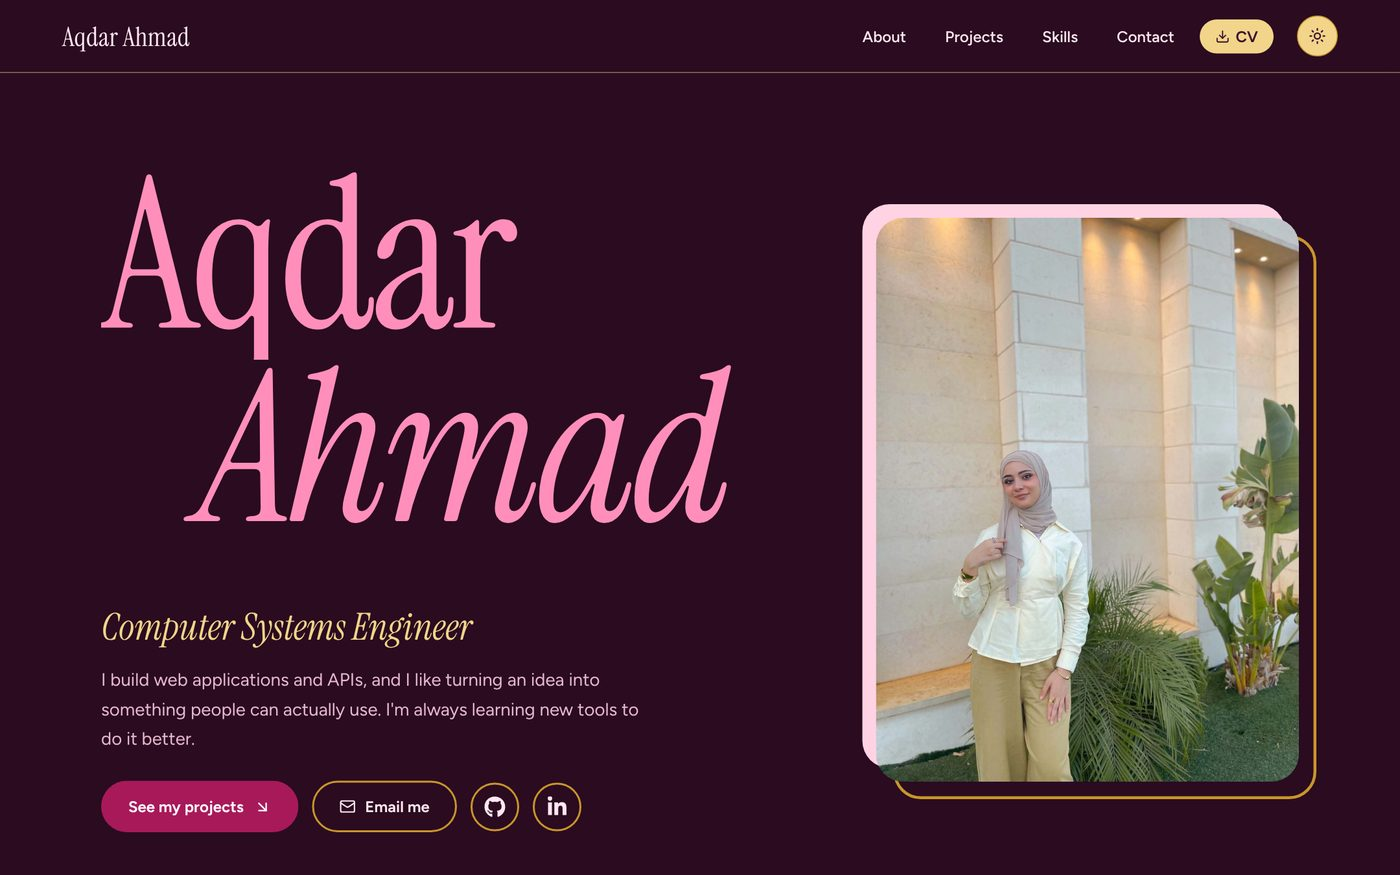
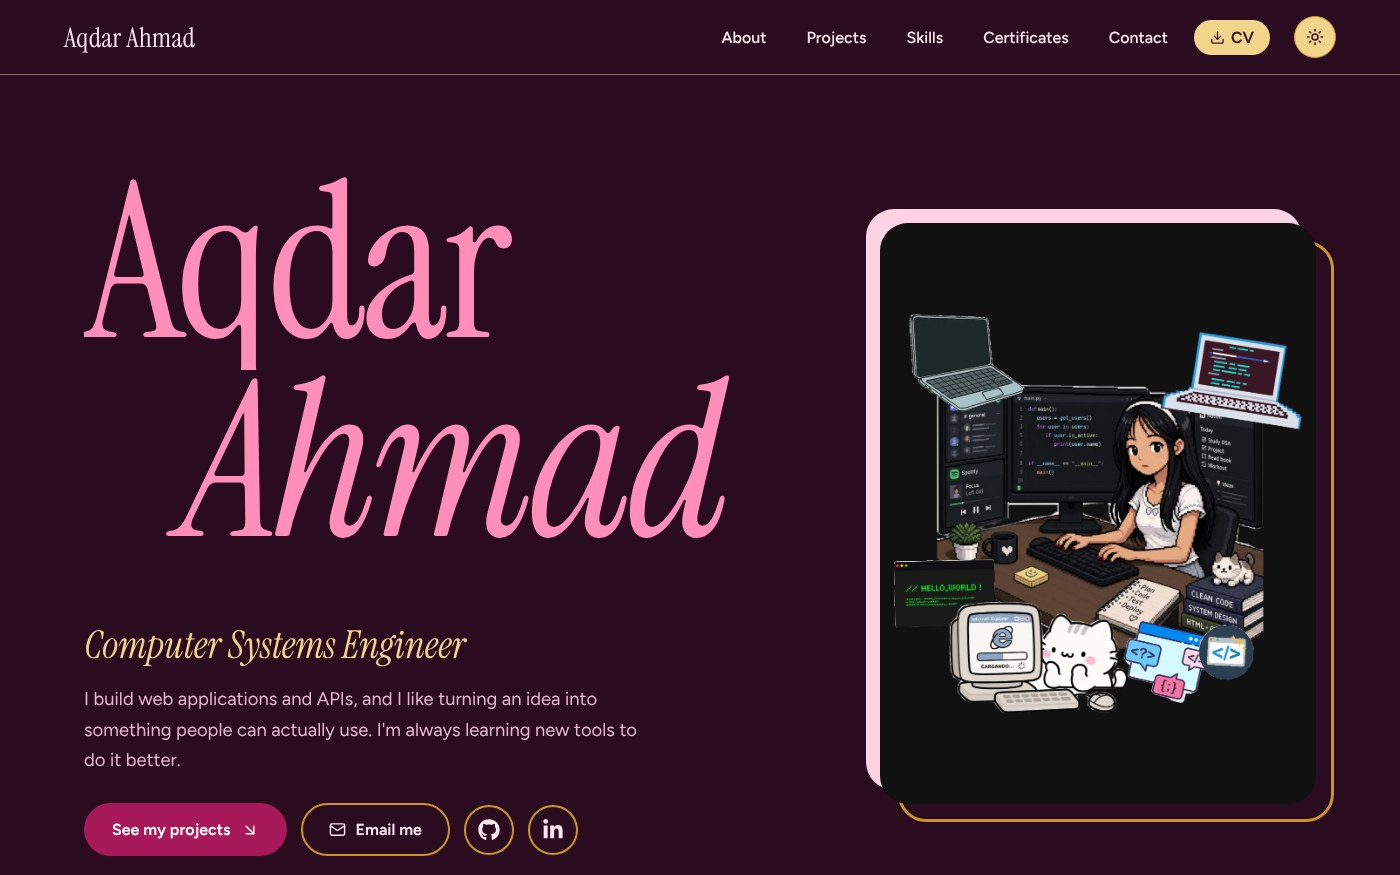
Replace hero portrait with new pixel-art illustration
- Swap src/assets/aqdar.jpg for aqdar.png (cropped to the 3:4 hero frame)
- Update Hero.jsx import
- Regenerate README screenshots (hero, dark, mobile) with the new image

diff --git a/src/components/Hero.jsx b/src/components/Hero.jsx
@@ -1,6 +1,6 @@
 import { ArrowDownRight, Mail } from "lucide-react";
 import { FaGithub, FaLinkedinIn } from "react-icons/fa6";
-import portrait from "../assets/aqdar.jpg";
+import portrait from "../assets/aqdar.png";
 
 export default function Hero() {
   return (
